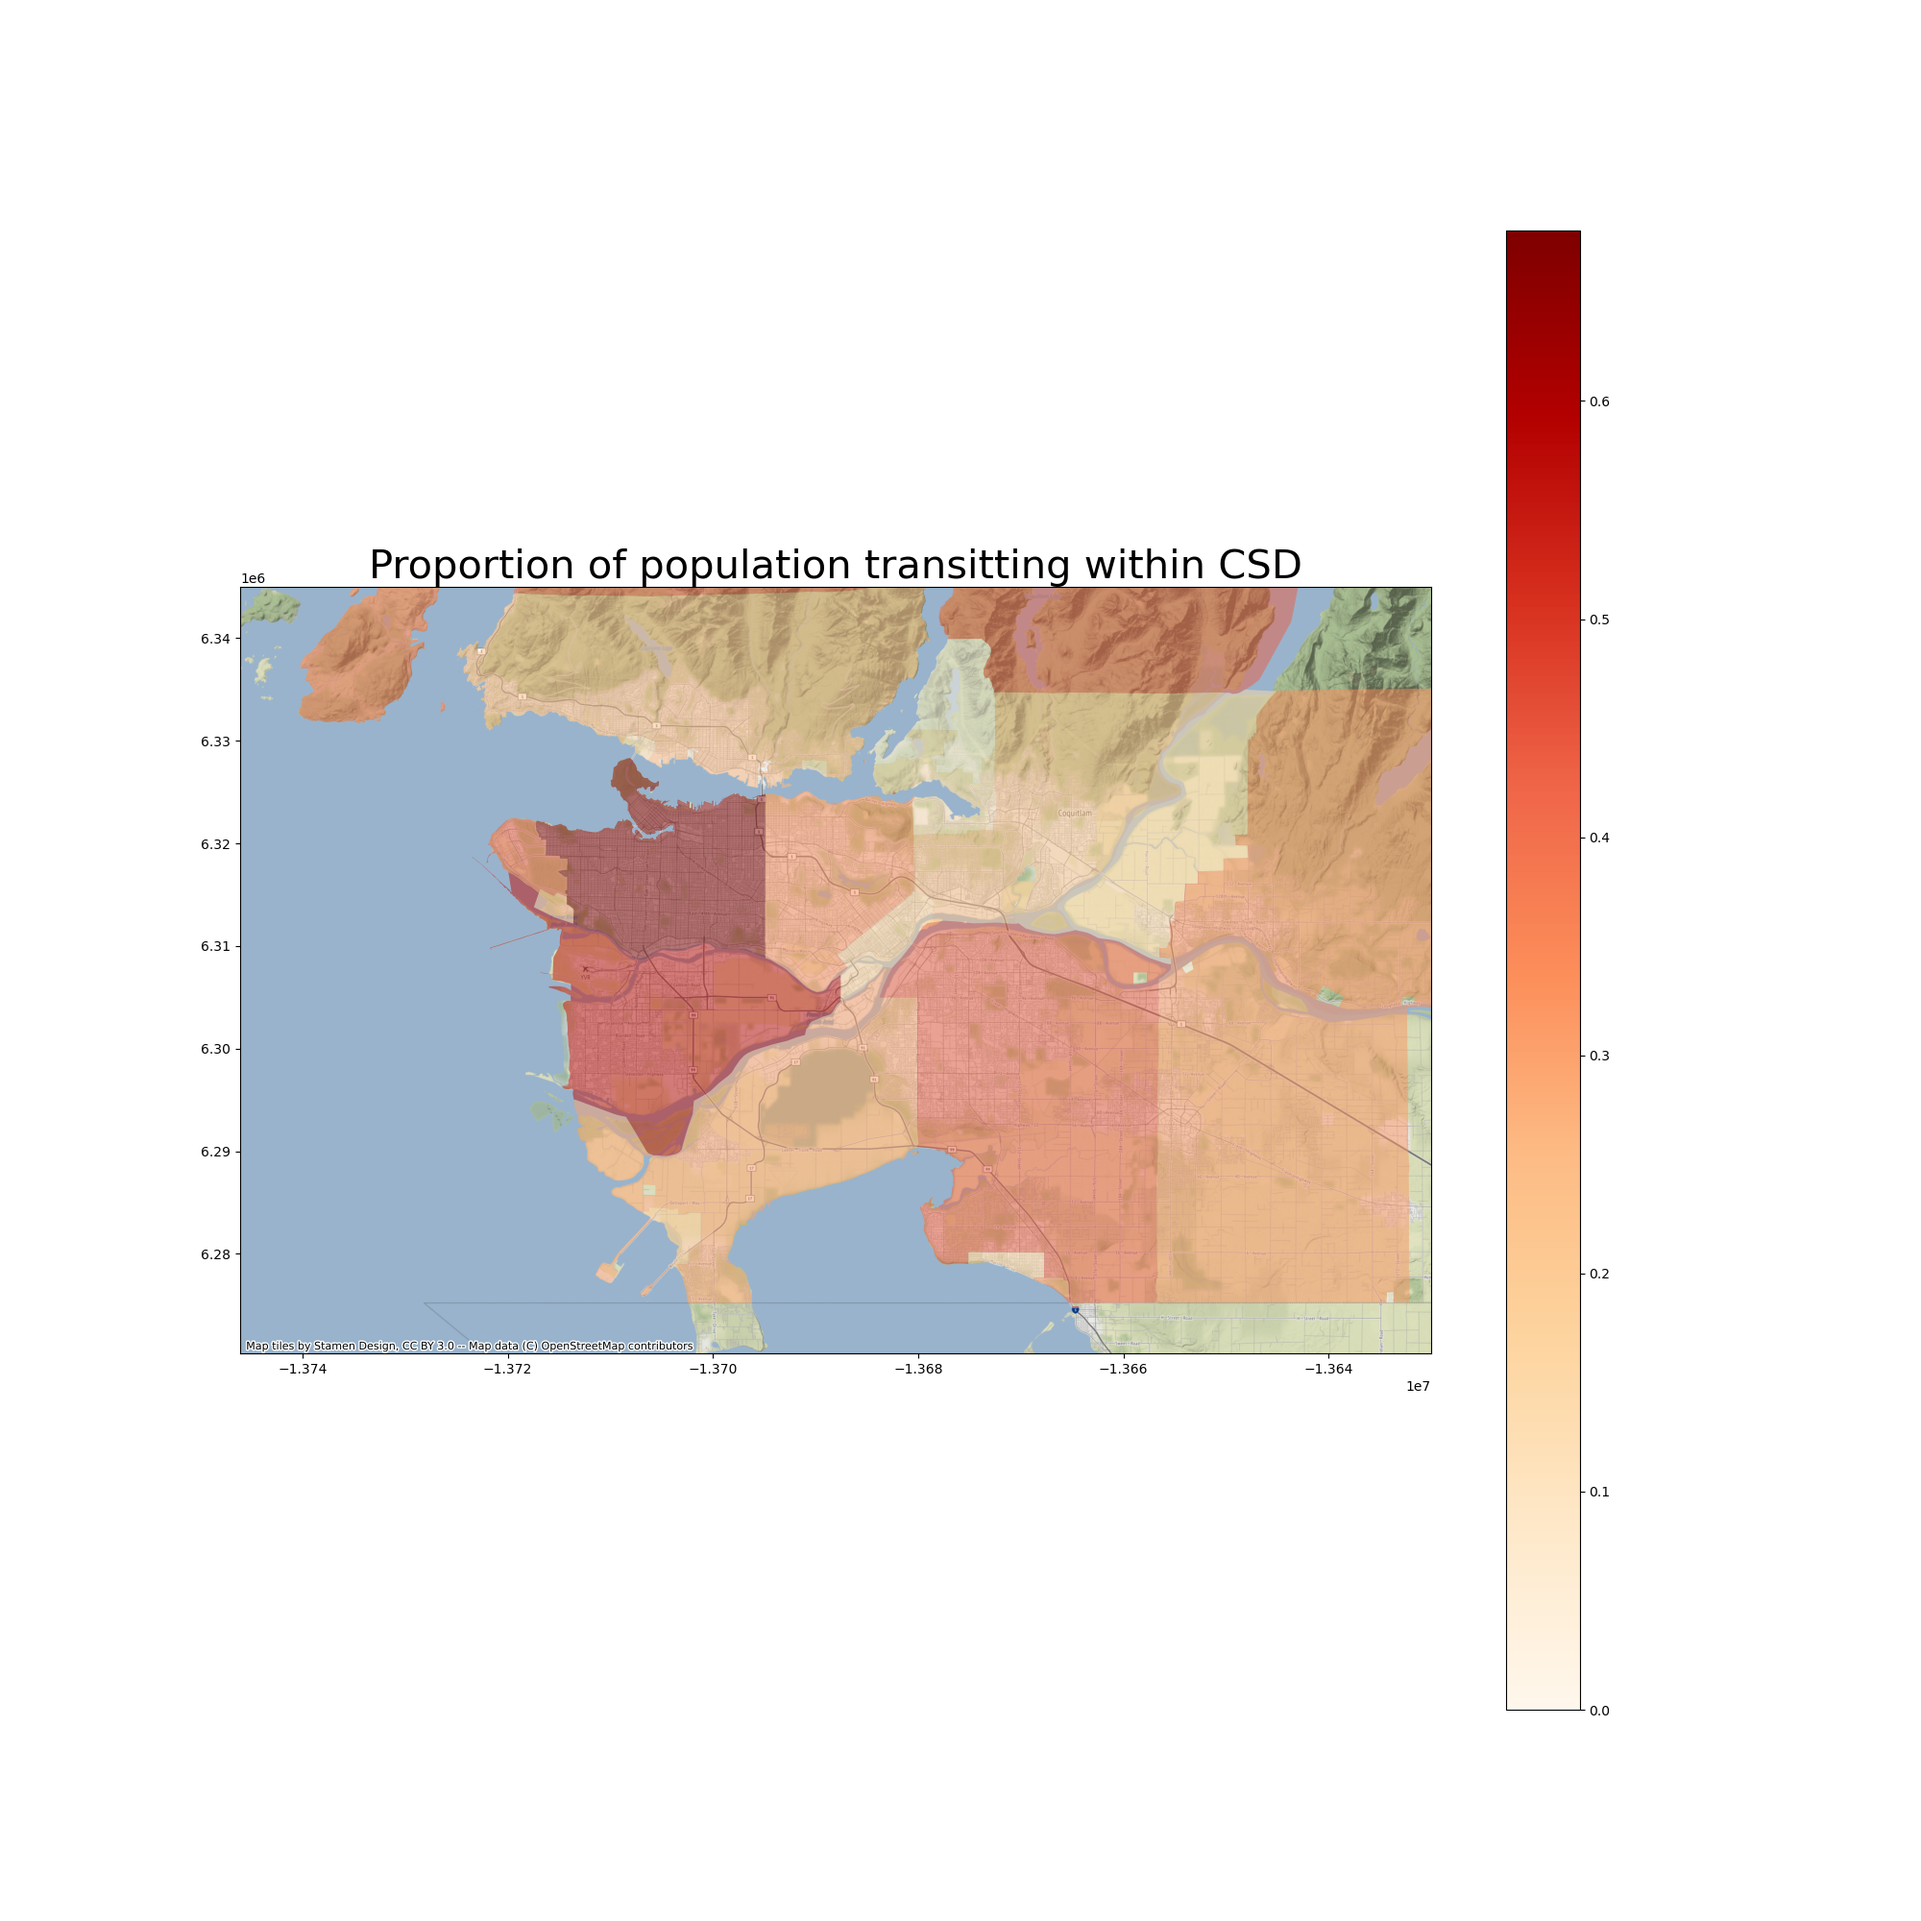
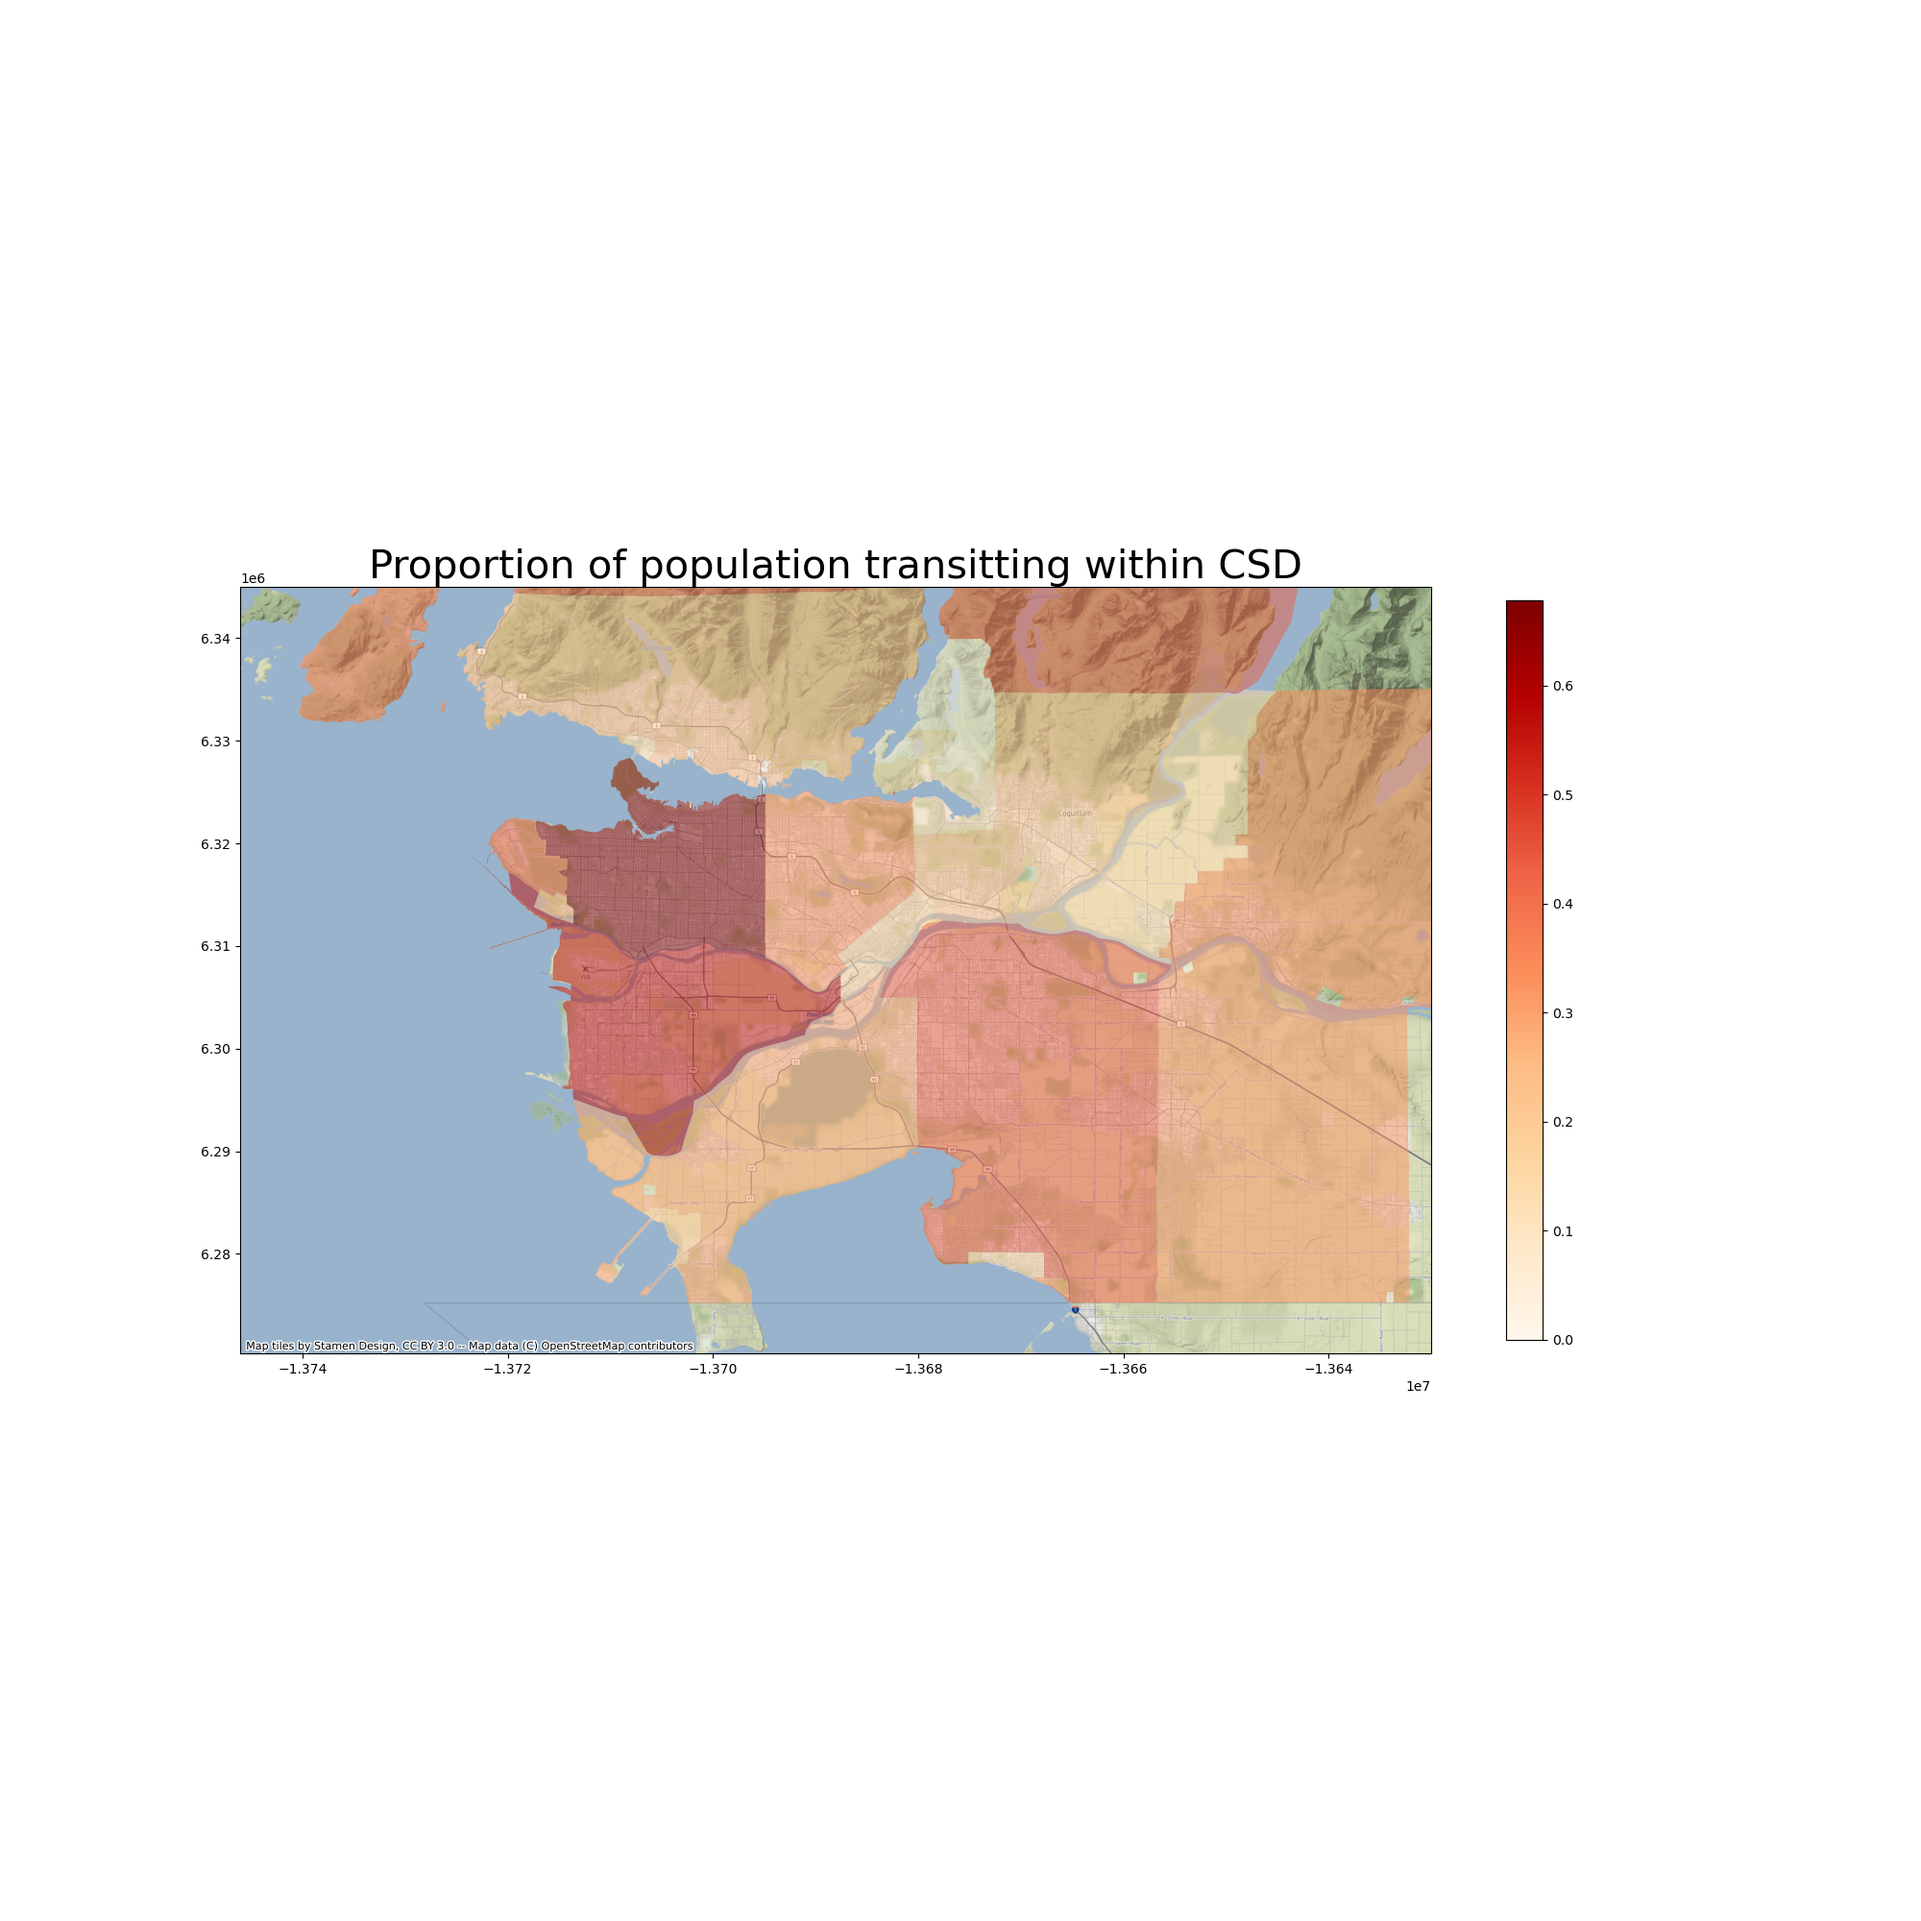
Adjust map sizes

Changed region(s): [[0.775, 0.124, 0.837, 0.899]]

diff --git a/_posts/2020-12-18-Vancouver_transit4.md b/_posts/2020-12-18-Vancouver_transit4.md
@@ -265,13 +265,13 @@ The two models' predictions, under scenario 2, are also quite similar. I have ca
 
 ## Impact evaluation
 
-If the public transportation authority of GVA does indeed increase service in the key areas, how much increase of transit use can we expect? A more fundamental question is that, although increase in access to public transit does have a positive impact on use of transit in commuting, how many DAs in GVA should be prioritized? The following analyses show that the law of dinimishing returns hold here, and the more DAs we target, the less increase in transit use we will see. However, as compared to the baseline scenario where we increase transit services in randomly selected DAs, a policy based on our models still results in far more increase in overall transit use in GVA overall.
+If the public transportation authority of GVA does indeed increase service in the key areas, how much increase of transit use can we expect? A more fundamental question is that, although increase in access to public transit does have a positive impact on use of transit in commuting, how many DAs in GVA should be prioritized? The following analyses show that the law of diminishing returns hold here, and the more DAs we target, the less increase in transit use we will see. However, as compared to the baseline scenario where we increase transit services in randomly selected DAs, a policy based on our models still results in far more increase in overall transit use in GVA overall.
 
 I want to point out that here, only the Random Forest model, instead of the LASSO model, is used in the calculations. This is because LASSO is essentially a linear model, and a fixed increase in access to transit will result in the same increase in transit usage, which is not useful in selecting DAs to prioritize.
 
 ### Scenario 1
 
-The following chart shows that as compared to the baseline, a policy to increase transit access informed by our model does result in more increase in public transportation use. For example, if we target DAs with a combined population of 100,000 and increase their number of tranist services per capita by 1.2, we are expected to see 0.7 percentage point increase in proportion of people using transit, which translates into 700 more people using transit. By contrast, if we randomly select DAs also with a combined population of 100,000, we are only expected to see 100 more people using transit. If we target DAs with a combined population of 400,000 and and increase their number of tranist services per capita by 1.2, we are expected to see 0.4 percentage point increase in proportion of people using transit, which translates into 1600 more people using transit. By contrast, if we randomly select DAs also with a combined population of 400,000, we are only expected to see 400 more people using transit.
+The following chart shows that as compared to the baseline, a policy to increase transit access informed by our model does result in more increase in public transportation use. For example, if we target DAs with a combined population of 100,000 and increase their number of transit services per capita by 1.2, we are expected to see 0.7 percentage point increase in proportion of people using transit, which translates into 700 more people using transit. By contrast, if we randomly select DAs also with a combined population of 100,000, we are only expected to see 100 more people using transit. If we target DAs with a combined population of 400,000 and and increase their number of transit services per capita by 1.2, we are expected to see 0.4 percentage point increase in proportion of people using transit, which translates into 1600 more people using transit. By contrast, if we randomly select DAs also with a combined population of 400,000, we are only expected to see 400 more people using transit.
 
 <img src="{{ site.url }}{{ site.baseurl }}/images/Vancouver_transit4/plots/X_1_percentage_point_increase_compare.png" alt="Chart: Scenario 1 PC Point Compare">
 

diff --git a/_posts/2021-02-14-Vancouver_transit_summary.md b/_posts/2021-02-14-Vancouver_transit_summary.md
@@ -21,4 +21,4 @@ The following chart shows percentage point increase of public transportation use
 
 The following map highlights priority areas if GVA wants to target 10% of its neighborhoods, and increase the number of public transit services by 10%. 
 
-<img src="{{ site.url }}{{ site.baseurl }}/images/Vancouver_transit4/plots/X_2_LASSO.png" alt="Map: LASSO Scenario 2">
+<img src="{{ site.url }}{{ site.baseurl }}/images/Vancouver_transit_4_summary/plots/X_2_LASSO.png" alt="Map: LASSO Scenario 2">
